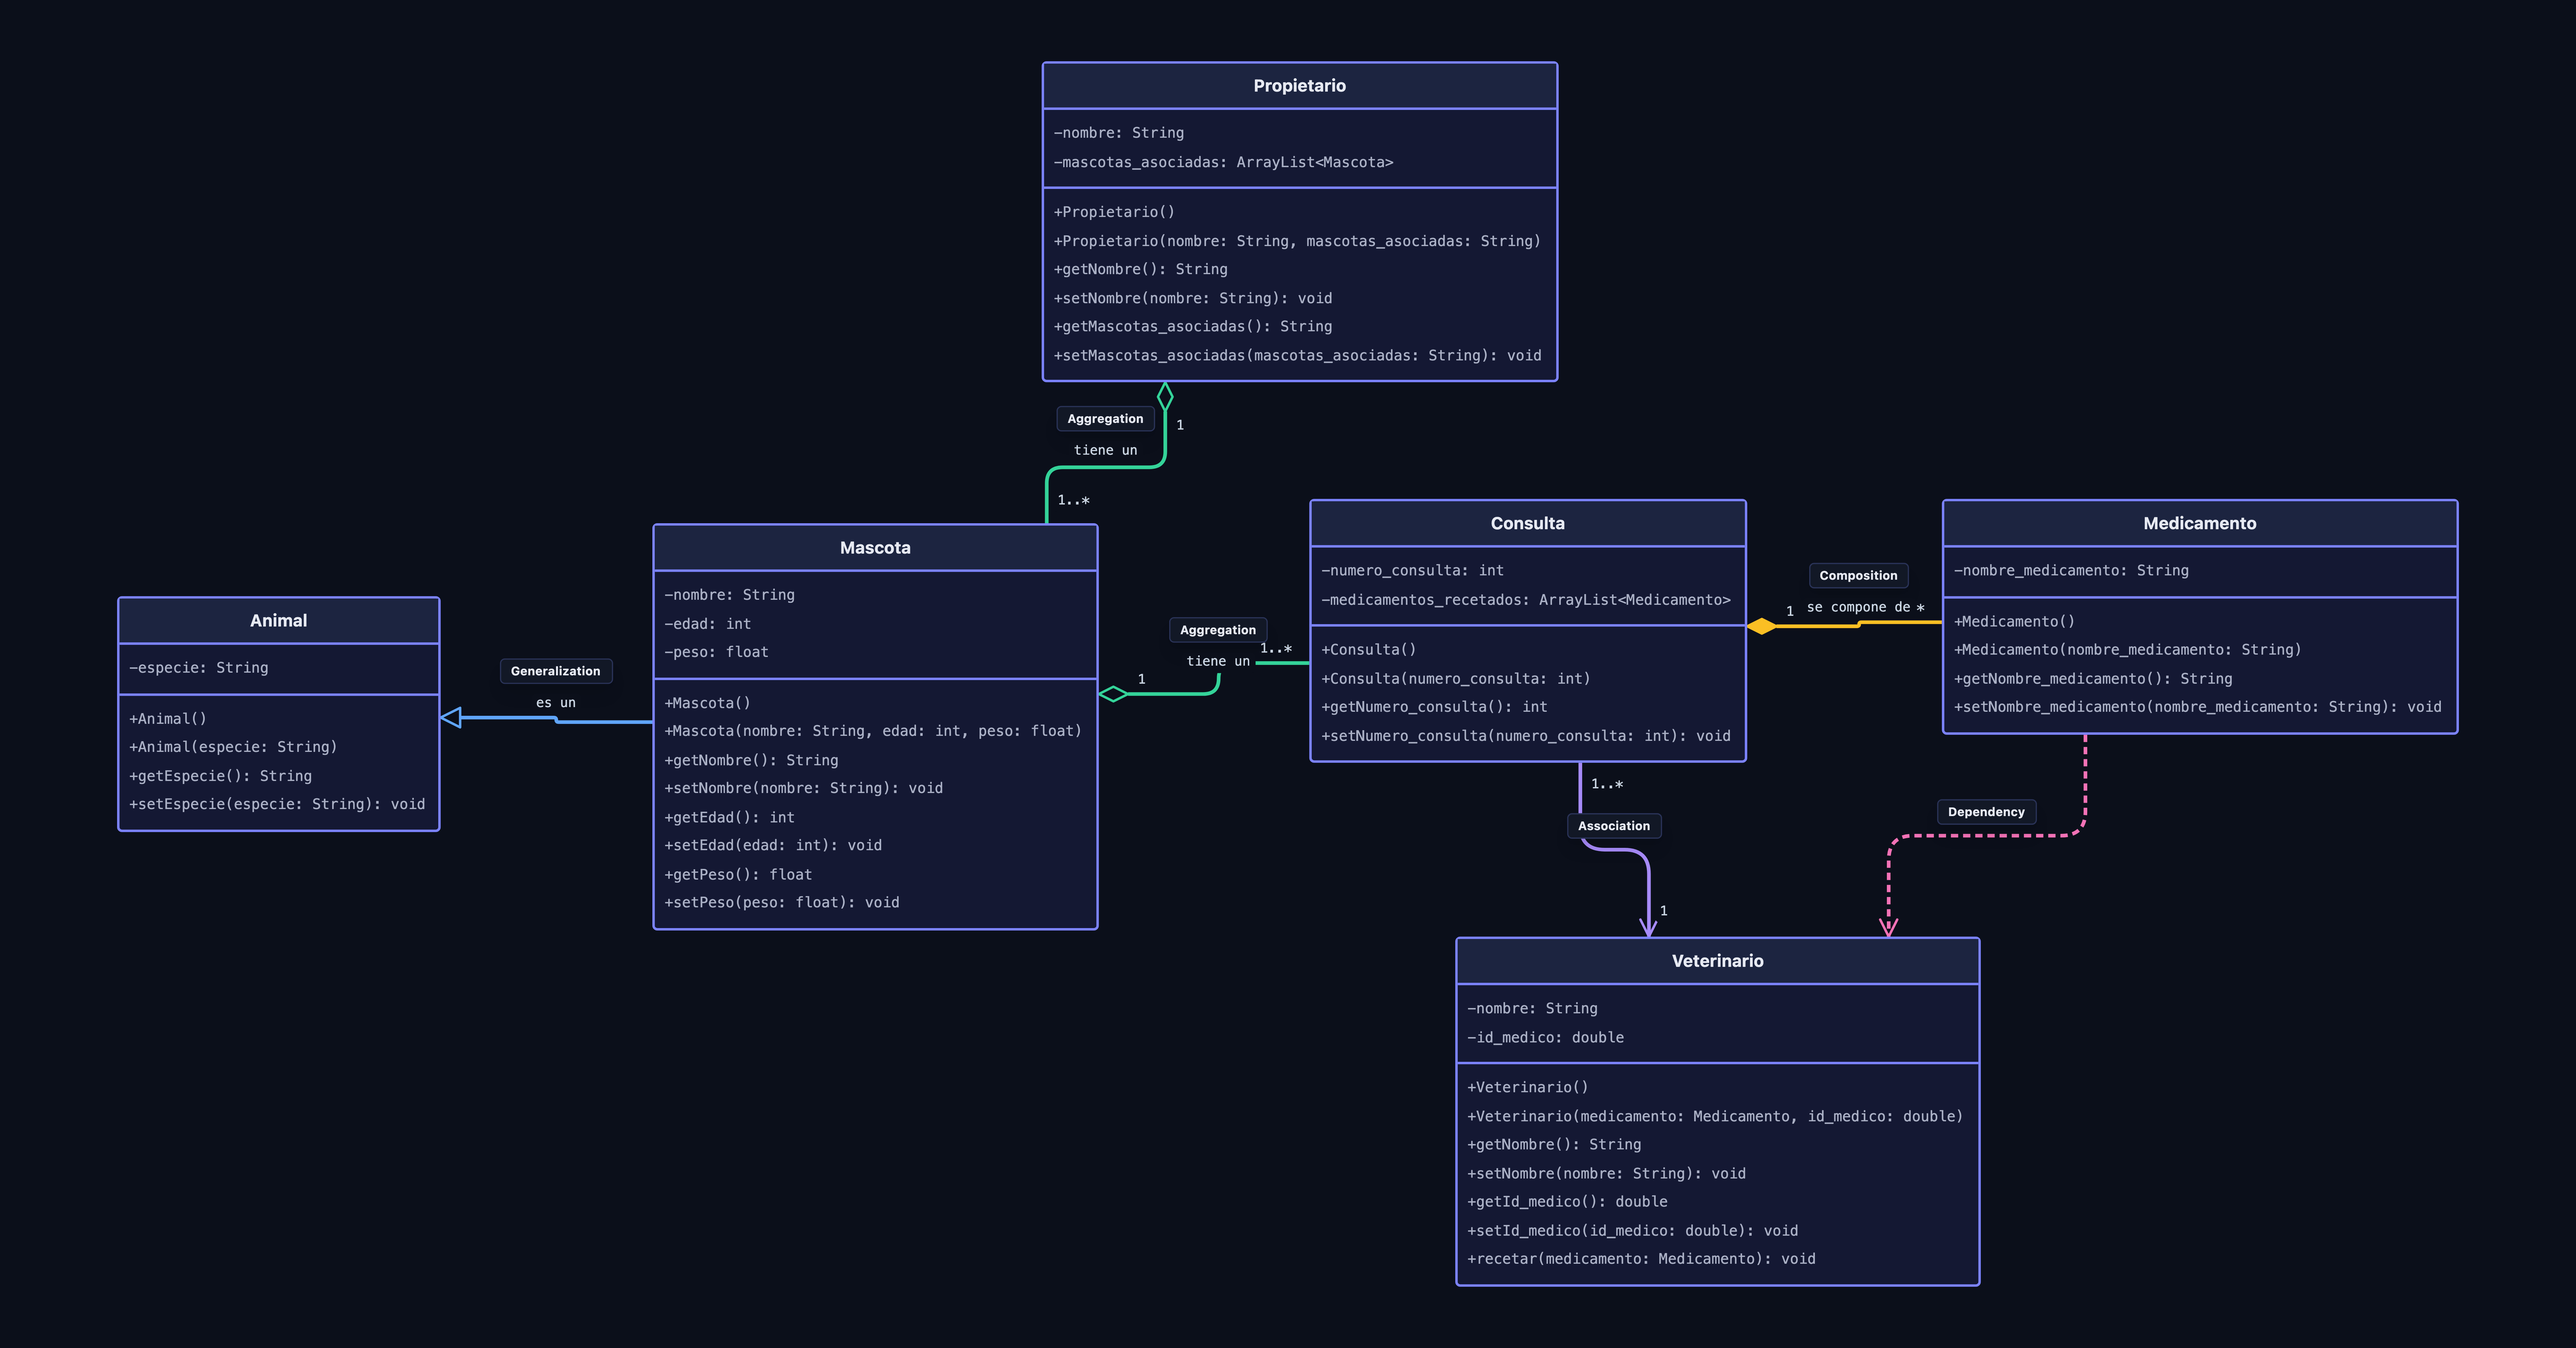
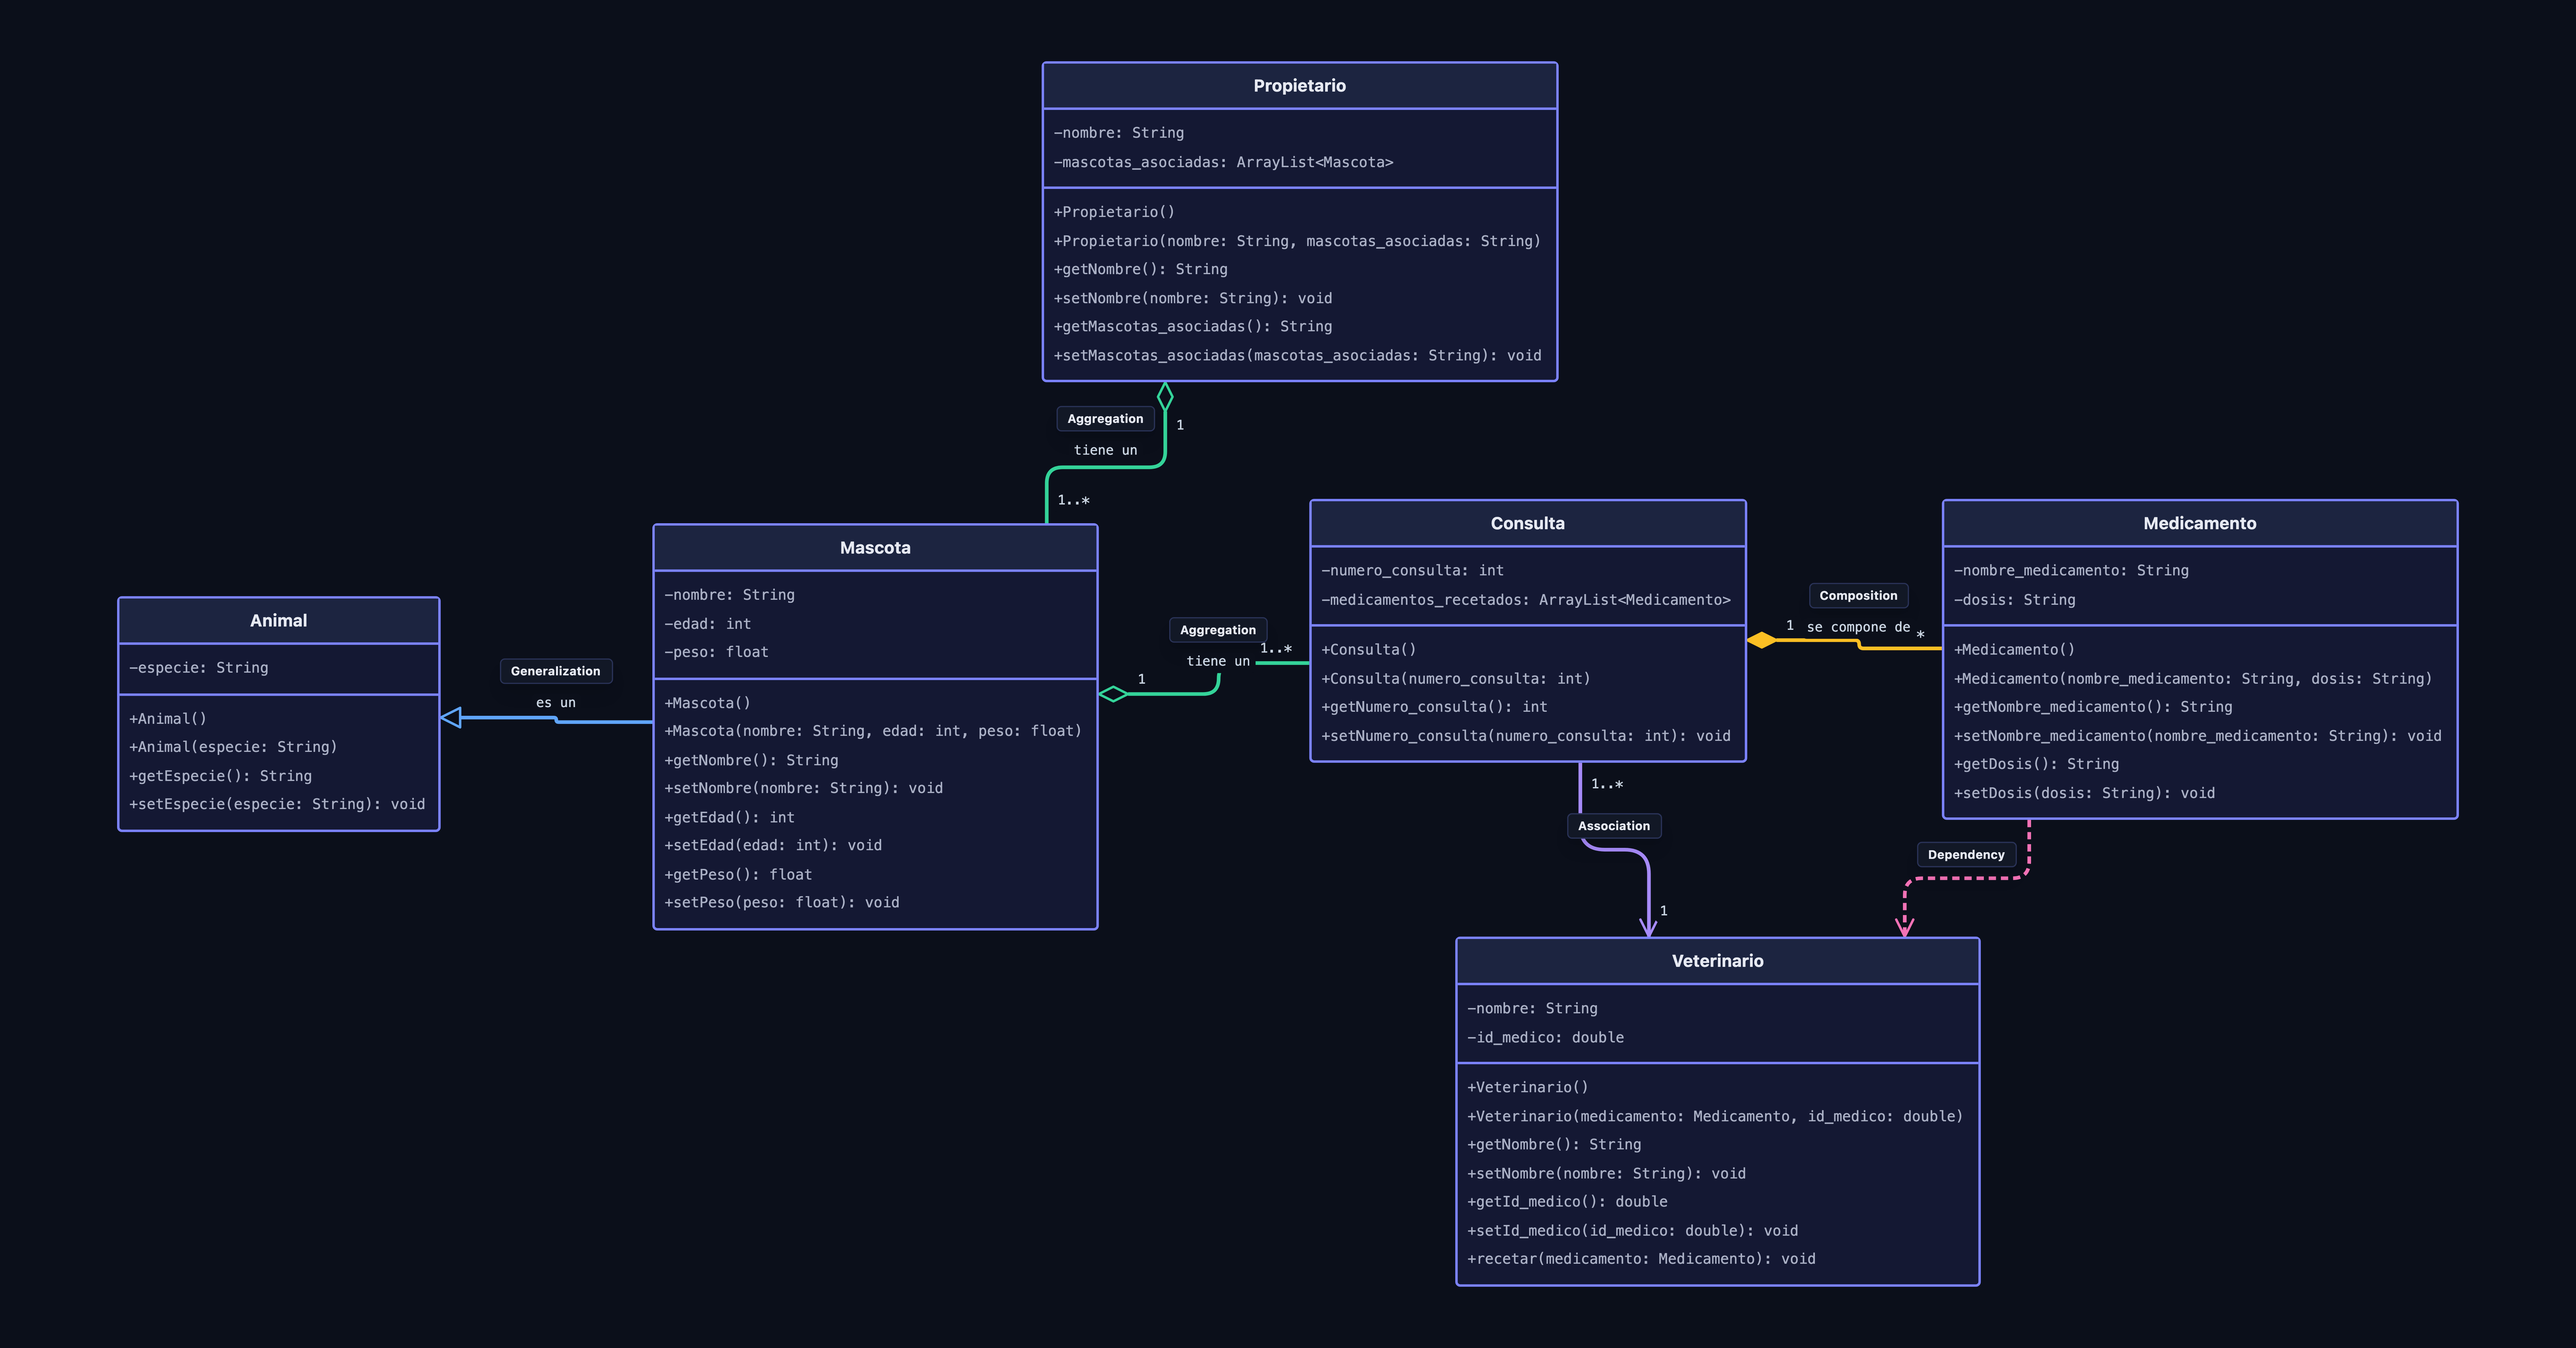
Creacion de models

Changed region(s): [[0.7481, 0.5, 0.9662, 0.6562], [0.6857, 0.4062, 0.9351, 0.5]]

diff --git a/src/models/Veterinario.java b/src/models/Veterinario.java
@@ -1,0 +1,49 @@
+package models;
+
+import java.util.ArrayList;
+
+public class Veterinario {
+
+    private String nombre;
+    private double id_medico;
+
+    //===============// Constructores //===============//
+
+    public Veterinario() {
+    }
+
+    public Veterinario(String nombre, double id_medico) {
+        this.nombre = nombre;
+        this.id_medico = id_medico;
+    }
+
+    //===============// Set y get //===============//
+
+
+    public String getNombre() {
+        return nombre;
+    }
+
+    public void setNombre(String nombre) {
+        this.nombre = nombre;
+    }
+
+    public double getId_medico() {
+        return id_medico;
+    }
+
+    public void setId_medico(double id_medico) {
+        this.id_medico = id_medico;
+    }
+
+
+    //===============// Funcion agregada de Veterinario  //===============//
+
+
+
+    public void recetar(Mascota m, Medicamento med){
+
+        System.out.println("El veterinario " + this.nombre + " en la receta asigno el medicamento: "
+                + med.getNombre_medicamento() + " con la dosis " + med.getDosis() + " a la mascota " + m.getNombre());
+    }
+}

diff --git a/src/models/Consulta.java b/src/models/Consulta.java
@@ -1,0 +1,38 @@
+package models;
+
+import java.util.ArrayList;
+
+public class Consulta {
+
+    private int numero_consulta;
+    private ArrayList<Medicamento> medicamentos_recetados;
+
+    //===============// Constructores //===============//
+
+    public Consulta() {
+    }
+
+    public Consulta(int numero_consulta, ArrayList<Medicamento> medicamentos_recetados) {
+        this.numero_consulta = numero_consulta;
+        this.medicamentos_recetados = medicamentos_recetados;
+    }
+
+    //===============// Set y get //===============//
+
+
+    public int getNumero_consulta() {
+        return numero_consulta;
+    }
+
+    public void setNumero_consulta(int numero_consulta) {
+        this.numero_consulta = numero_consulta;
+    }
+
+    public ArrayList<Medicamento> getMedicamentos_recetados() {
+        return medicamentos_recetados;
+    }
+
+    public void setMedicamentos_recetados(ArrayList<Medicamento> medicamentos_recetados) {
+        this.medicamentos_recetados = medicamentos_recetados;
+    }
+}

diff --git a/src/models/Propietario.java b/src/models/Propietario.java
@@ -1,0 +1,41 @@
+package models;
+
+import java.util.ArrayList;
+
+public class Propietario {
+
+    private String nombre;
+    private ArrayList<Mascota> mascotas_asociadas;
+
+    //===============// Constructores //===============//
+
+
+    public Propietario() {
+    }
+
+    public Propietario(String nombre, ArrayList<Mascota> mascotas_asociadas) {
+        this.nombre = nombre;
+        this.mascotas_asociadas = mascotas_asociadas;
+    }
+
+    //===============// Set y get //===============//
+
+
+    public String getNombre() {
+        return nombre;
+    }
+
+    public void setNombre(String nombre) {
+        this.nombre = nombre;
+    }
+
+    public ArrayList<Mascota> getMascotas_asociadas() {
+        return mascotas_asociadas;
+    }
+
+    public void setMascotas_asociadas(ArrayList<Mascota> mascotas_asociadas) {
+        this.mascotas_asociadas = mascotas_asociadas;
+    }
+
+
+}

diff --git a/src/models/Mascota.java b/src/models/Mascota.java
@@ -1,0 +1,48 @@
+package models;
+
+public class Mascota extends Animal {
+
+    private String nombre;
+    private int edad;
+    private float peso;
+
+
+    //===============// Constructores //===============//
+
+    public Mascota() {
+    }
+
+    public Mascota(String nombre, int edad, float peso) {
+        this.nombre = nombre;
+        this.edad = edad;
+        this.peso = peso;
+    }
+
+    //===============// Set y get //===============//
+
+    public String getNombre() {
+        return nombre;
+    }
+
+    public void setNombre(String nombre) {
+        this.nombre = nombre;
+    }
+
+    public int getEdad() {
+        return edad;
+    }
+
+    public void setEdad(int edad) {
+        this.edad = edad;
+    }
+
+    public float getPeso() {
+        return peso;
+    }
+
+    public void setPeso(float peso) {
+        this.peso = peso;
+    }
+
+
+}

diff --git a/src/models/Medicamento.java b/src/models/Medicamento.java
@@ -1,0 +1,37 @@
+package models;
+
+public class Medicamento {
+
+    private String nombre_medicamento;
+    private String dosis;
+
+
+    //===============// Constructores //===============//
+
+    public Medicamento() {
+    }
+
+    public Medicamento(String nombre_medicamento, String dosis) {
+        this.nombre_medicamento = nombre_medicamento;
+        this.dosis = dosis;
+    }
+
+    //===============// Set y get //===============//
+
+
+    public String getNombre_medicamento() {
+        return nombre_medicamento;
+    }
+
+    public void setNombre_medicamento(String nombre_medicamento) {
+        this.nombre_medicamento = nombre_medicamento;
+    }
+
+    public String getDosis() {
+        return dosis;
+    }
+
+    public void setDosis(String dosis) {
+        this.dosis = dosis;
+    }
+}

diff --git a/src/models/Animal.java b/src/models/Animal.java
@@ -1,0 +1,28 @@
+package models;
+
+public class Animal{
+
+    private String especie;
+
+
+    //===============// Constructores //===============//
+
+
+    public Animal() {
+    }
+
+    public Animal(String especie) {
+        this.especie = especie;
+    }
+
+    //===============// Set y get //===============//
+
+
+    public String getEspecie() {
+        return especie;
+    }
+
+    public void setEspecie(String especie) {
+        this.especie = especie;
+    }
+}
